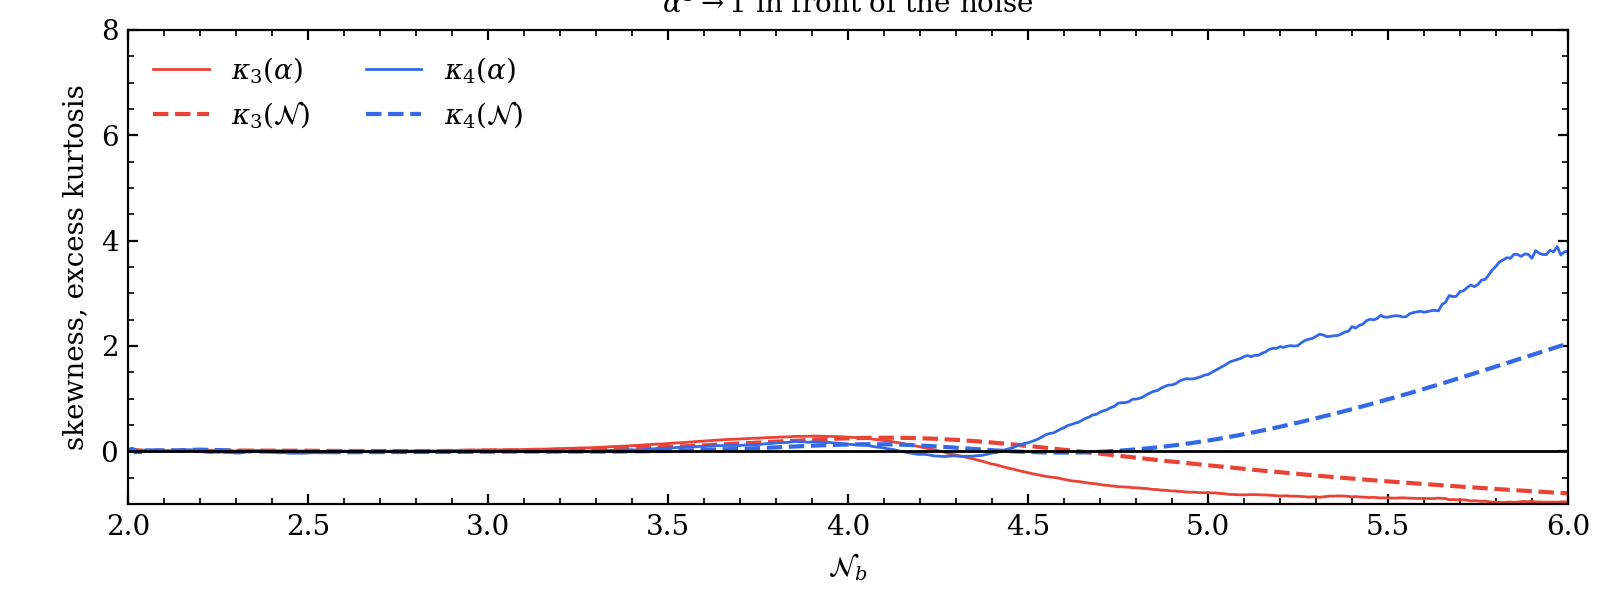
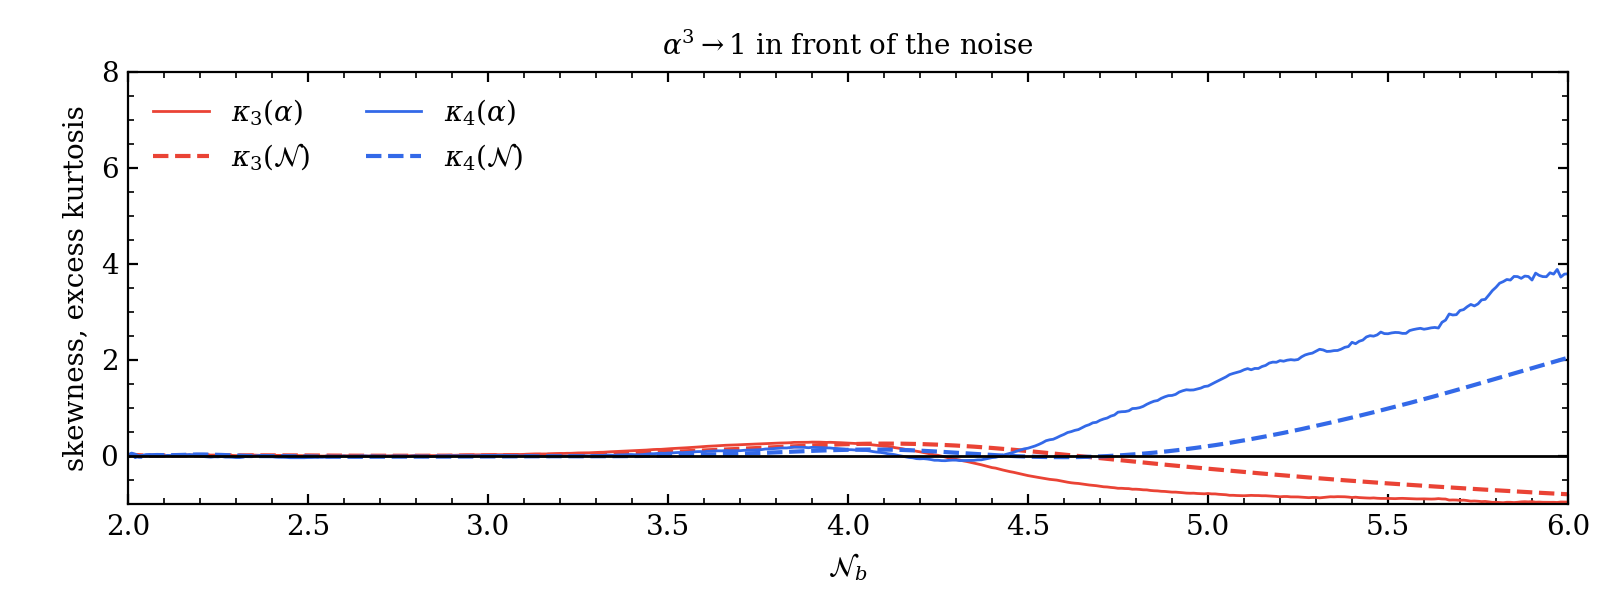
repro/langevin: verdicts for arXiv:2401.08530 sec. V - four figures reproduced (Ito reading at step 0.01 matches the read-off widths within 3%), statements tested; README, journal entry 3
Runs E-20261123-021043-d00a314 (simulation), E-20261123-021843-813759b (analysis). Background of the paper reaches the slope only with forward Euler at step 0.01 (crossing 3.0435); the converged one stops at phi = 9.06402 > phi_c.

diff --git a/tracks/E-stoch-inf/repro/langevin/README.md b/tracks/E-stoch-inf/repro/langevin/README.md
@@ -1,0 +1,178 @@
+# repro/langevin: arXiv:2401.08530, section V (Langevin equations in the uniform-field gauge)
+
+Reproduction of the numerical part of "Stochastic Inflation in General Relativity"
+(arXiv:2401.08530 v2; source `kb-data/raw/arxiv/2401.08530/v2/src/Stochastic_Inflation.tex`,
+cited `SI.tex:<line>`): two coupled Langevin equations for the lapse alpha and the e-folds N of
+one patch, time = background e-folds N_b, fifty thousand paths, four figures and the
+statements of SI.tex:842-875. Decision 0028 item 1. This is a zero-dimensional stochastic ODE,
+a semi-analytic reference outside `athenak/src/` in the sense of decision 0010; the paper
+itself says no numerical-relativity code exists in this gauge (SI.tex:879). Journal with
+every prediction and outcome: `JOURNAL.md`. No card time used.
+
+## Contents
+
+| Path | What |
+|---|---|
+| `lsde.py` | background (forward Euler or RK4), noise amplitude of SI.tex:838, the printed equations SI.tex:806 and 825-826, integrators: Stratonovich Heun, Euler-Maruyama on the Ito-equivalent drift, Euler-Maruyama on the printed drift (Ito reading); linear-theory covariance ODE |
+| `simulate.py` | the four backgrounds and the 21 variants (50 000 paths each); writes `var_<name>.npz`, `bg_<name>.npz`, `summary.json` |
+| `analyse.py` | figures, KDE with bootstrap bands (Silverman bandwidth, 200 resamples), tail tests, bootstrap moments, window medians; writes `langevin.json` |
+| `figstyle.py` | copy of `python/nrpic/figstyle.py` |
+| `results/langevin.json` | every number below (backgrounds, per-variant moments at N_b = 3 ... 6, window medians over [4.5, 6], tail tests, linear check) |
+| `results/simulate_summary.json` | per-variant moments at the record times, dead paths, wall times |
+| `fig/*.png` | our figures (none of the paper's) |
+
+Registered runs (manifests in `tracks/E-stoch-inf/runs/<id>/`, output in
+`scratch/E-stoch-inf/<id>/`, one core each, scouting):
+
+| Run | What |
+|---|---|
+| `E-20261123-020327-e524721` | run 1: backgrounds and 16 variants |
+| `E-20261123-020746-78d0c54` | analysis of run 1, FAILED (plotting keyword), kept on record |
+| `E-20261123-020825-1a01a96` | analysis of run 1 |
+| `E-20261123-021043-d00a314` | run 2: all 21 variants (run 1 repeated bit for bit, plus the Ito-reading set) |
+| `E-20261123-021647-46097e6` | analysis of run 2 |
+| `E-20261123-021843-813759b` | analysis of run 2, final (title margin only); `results/` and `fig/` come from it |
+
+## How to rerun
+
+From the worktree root, with committed code (about 6 min and 2 min on one core):
+
+```text
+harness/bin/nrpic-run submit --kind scouting --gate G2 --purpose "..." --package tracks/E-stoch-inf/repro/langevin --cores 1 -- python3 tracks/E-stoch-inf/repro/langevin/simulate.py '$NRPIC_RUN_DIR'
+harness/bin/nrpic-run submit --kind scouting --gate G2 --purpose "..." --package tracks/E-stoch-inf/repro/langevin --parent <sim run> --cores 1 -- python3 tracks/E-stoch-inf/repro/langevin/analyse.py /data/haiyangw/nrpic/scratch/E-stoch-inf/<sim run> '$NRPIC_RUN_DIR' --install tracks/E-stoch-inf/repro/langevin
+```
+
+Seeds are fixed (numpy PCG64 with SeedSequence(seed), seed 1 unless the variant says
+otherwise); run 2 repeated run 1 exactly.
+
+## Set-up and the choices the paper leaves open
+
+As printed: V = V0 to phi_c = 9.056, V0 [3x^2 - 2x^3] below; phi* = 10, dphi/dN* = -2.0001,
+V0 from the Friedmann constraint with H* = 1e-5 (V0 = 9.998e-11), M_Pl = 1 (SI.tex:847);
+noise on for 2 <= N_b < 6, step 0.01, 50 000 paths, start alpha = 1, N = N_b (SI.tex:842);
+amplitude (3/2pi) H / sqrt(2 eps1) on the background (SI.tex:838, 1072); eps2 = -d ln eps1/dN
+(SI.tex:919, so eps2 = +6 in USR). Choices [JUDGEMENT]:
+
+1. Background integrator. The converged background never reaches the slope: on the plateau
+   the field stops at phi = 10 - (1/sqrt6) ln((sqrt6 + 2.0001)/(sqrt6 - 2.0001)) = 9.06402,
+   above phi_c [VERIFIED analytically and by RK4]. Forward Euler at step 0.01 crosses phi_c at
+   N_b = 3.0435, the paper's "about 3.04" (SI.tex:842); Euler at 0.005 stops at 9.0600, Heun at
+   0.01 at 9.06393. We take the Euler-0.01 background as the paper's; this explains its
+   footnote that the tuning depends on the step of 0.01.
+2. Interpretation. The paper says it used Mathematica's Stratonovich evolver (SI.tex:836) and
+   derives the alpha^3 <S^2> term with Ito's lemma (SI.tex:814-822). Our baseline `base` is the
+   printed equation read as Stratonovich (Heun). We also solve the Ito reading (Euler-Maruyama
+   on the printed drift, `ito_naive`) and the Ito-equivalent of the Stratonovich reading
+   (`ito_em`).
+3. Ito's lemma on f(Z) = phidot_b/Z with noise alpha S_Pi gives alpha^5 <S_Pi^2>/phidot_b^2,
+   not the printed alpha^3 (SI.tex:817); the paper leaves the multiplier "undecided"
+   (SI.tex:814). We use the printed alpha^3.
+4. "alpha^3 set to 1" (SI.tex:875): set to 1 both in front of the noise and in the Ito term.
+5. KDE: Gaussian kernel, Silverman bandwidth, 95% pointwise bootstrap band (200 resamples).
+   Caption SI.tex:861 says "five" times and lists four (3, 4, 5, 6); we use the four.
+6. A path with |alpha| > 50 or not finite is stopped and left out of the moments (counted).
+
+Values of the paper read off its figures (`plot2v2.png`, `plot2bv2.png`, `plot4v2.png`;
+widths from the peak of the dashed Gaussian, sigma = 1/(peak sqrt(2 pi))) appear only in this
+text: std(alpha - 1) = 0.0066, 0.117, 0.133, 0.121 and std(N - N_b) = 0.0016, 0.042, 0.150,
+0.190 at N_b = 3, 4, 5, 6; kappa3(alpha) ~ 1.1 and kappa4(alpha) ~ 3 (spiky) from 4.2 on;
+kappa3(N), kappa4(N) peak ~0.6, ~0.8 near 4.4 and reach ~0.3, ~0.2 at 6. Reading accuracy
+about 3-5%.
+
+## Results and verdicts
+
+Numbers from `results/langevin.json` (analysis `E-20261123-021843-813759b` of run
+`E-20261123-021043-d00a314`). Main finding [JUDGEMENT, from statistics, not from the
+authors]: the paper's four figures are matched to within the reading accuracy by the Ito
+reading of the printed equations at step 0.01 on the Euler-0.01 background, and NOT by the
+Stratonovich reading it states. The convergent Stratonovich solution (Heun and Ito-equivalent
+agree at h = 0.001 within 0.6%) is 8-20% wider at N_b = 4-6, has kappa3(alpha) ~ 1.6 instead
+of ~1.1, and a mean N - N_b = 0.085 at N_b = 6 (the paper's 100-path mean ~0.01-0.02).
+
+| Width | paper (read off) | Ito reading, seeds 1/2/3, h = 0.01 | Ito reading h = 0.001 | Stratonovich (Heun), h = 0.01 |
+|---|---|---|---|---|
+| std alpha, N_b = 4 | 0.117 | 0.1168 / 0.1173 / 0.1167 | 0.1225 | 0.1263 |
+| std alpha, 5 | 0.133 | 0.1365 / 0.1339 / 0.1331 | 0.1311 | 0.1688 |
+| std alpha, 6 | 0.121 | 0.1207 / 0.1207 / 0.1207 | 0.1198 | 0.1443 |
+| std N, 4 | 0.042 | 0.0425 / 0.0427 / 0.0426 | 0.0454 | 0.0461 |
+| std N, 5 | 0.150 | 0.1498 / 0.1506 / 0.1497 | 0.1549 | 0.1707 |
+| std N, 6 | 0.190 | 0.1853 / 0.1864 / 0.1856 | 0.1900 | 0.2171 |
+| median kappa3(alpha) on [4.5, 6] | ~1.1 | 1.04 / 1.13 / 1.14 | 1.08 | 1.59 (seeds 2-4: 1.53-1.64) |
+| median kappa4(alpha) on [4.5, 6] | ~3 | 4.41 / 3.02 / 3.18 | 2.83 | 7.23 |
+| median kappa3(N), kappa4(N) on [4.5, 6] | ~0.3-0.5, ~0.2-0.5 | 0.34-0.36, 0.17-0.25 | 0.35, 0.22 | 0.46, 0.41 |
+| mean N - N_b at 6 | ~0.01-0.02 (100 paths) | 0.0034 / 0.0033 / 0.0024 | 0.0046 | 0.085 |
+
+Per figure:
+- Fig. 1 (paths, `fig/fig1_paths.png`, `fig/fig1_paths_ito_naive.png`): REPRODUCED. Noise
+  visible from ~3.2, alpha spread -0.3 to +0.6 with spikes to ~1 after 4, N - N_b fans out to
+  +-0.4 and freezes; widths as in the table (Ito reading within 4%; Stratonovich 8-20% wider,
+  with a drifting mean of N - N_b).
+- Fig. 2 (skewness, kurtosis, `fig/fig2_moments_ito_naive.png`, `fig/fig2_moments.png`):
+  REPRODUCED with the Ito reading (kappa3(N) and kappa4(N) peak at ~0.58 and ~0.68 near 4.35,
+  read off our figure, then fall to 0.27 and 0.11 at 6; kappa3(alpha) plateau ~1.05; kappa4(alpha) 2.5-4.5 with spikes).
+  REPRODUCED IN PART with the Stratonovich reading (same shapes for N; kappa3(alpha) ~1.6,
+  kappa4(alpha) ~7 with spikes to 400). Single-time kurtosis of alpha is dominated by a few
+  paths near blow-up (14 of 50 000 stopped in `base`, 0-2 in the Ito reading), so it is not a
+  stable statistic (seed 3: 3143 at N_b = 5).
+- Fig. 3 (PDFs with Gaussians and bootstrap bands, `fig/fig3_pdfs_ito_naive.png`,
+  `fig/fig3_pdfs.png`): REPRODUCED. Gaussian at N_b = 3; at 4-6 alpha peaked left of its mean
+  with a long right tail, N - N_b mildly right-skewed; the Ito-reading KDE peaks (read off our
+  figure: 59/245, 3.75/9.7, 3.45/2.75, 3.8/2.15 for alpha/N at 3/4/5/6) match the paper's to a
+  few per cent.
+- Fig. 4 (log PDFs, `fig/fig4_logpdfs.png`, `fig/fig4_logpdfs_ito_naive.png`): REPRODUCED,
+  including straight right tails from N_b = 4 and the sharp left cut-off of alpha.
+
+Per statement:
+- USR from ~2 e-folds, eps1 << 1, eps2 ~ 6 (SI.tex:842): REPRODUCED; eps1 < 1e-2 and
+  |eps2 - 6| < 0.03 from N_b = 1.06; eps1(2) = 3.2e-5 (`fig/fig_background.png`).
+- Slope reached at ~3.04, velocity then rises extremely slowly in USR (SI.tex:842):
+  REPRODUCED only with the Euler-0.01 background (3.0435; |phi'| falls to its minimum
+  9.2e-6 at N_b = 5.41, eps2 = 4.07, 0.34, -0.12 at 4, 5, 6). With the converged background
+  the slope is never reached, sigma grows like e^{3N} and half the paths blow up by
+  N_b = 4.75-4.8 (86-88% by 6; `bg_exact`, `bg_e005`; `fig/fig_step_seed.png`).
+- Exponential tails between 3 and 4 e-folds (SI.tex:871): lapse REPRODUCED (exceedances above
+  the 90% quantile, N_b = 4 to 6, Stratonovich and Ito reading: coefficient of variation
+  0.97-1.12 against 1 for an exponential and 0.87 for the Gaussian tail, 1.6 once where one
+  extreme path dominates; KS against the exponential p >= 0.013 in 7 of 8 cases, 1.3e-4 in that
+  one; against the Gaussian tail p < 1e-88); e-folds REPRODUCED IN PART (much heavier than the
+  Gaussian tail, KS p < 1e-22, but between Gaussian and exponential: CV 0.88-0.96, KS against
+  the exponential p from 4e-5 to 0.034). At N_b = 3 both are Gaussian (KS against the Gaussian tail p = 0.10 to 0.39).
+- Noise off at 6: lapse back to 1, e-folds conserved (SI.tex:873): REPRODUCED (`off6`,
+  `fig/fig_off6.png`): median |alpha - 1| = 1.5e-4 at N_b = 8 and 2.8e-7 at 10 (max 2.0e-6);
+  N - N_b changes between 7 and 10 by a median 1.1e-3, 0.5% of its spread 0.23.
+- alpha^3 -> 1 gives left-skewed PDFs (SI.tex:875): REPRODUCED (`a3one`,
+  `fig/fig_a3one.png`, `fig/fig_a3one_moments.png`): skewness of alpha -0.78, -0.96 and of N
+  -0.26, -0.80 at N_b = 5, 6; paths cross alpha = 0 (minimum alpha -1.0 at 6), whereas with
+  alpha^3 the smallest alpha at the record times of the Heun runs is 0.64 (the barrier of
+  SI.tex:875; Euler-Maruyama on the Ito-equivalent: 0.12 at N_b = 6). In the Ito reading a few paths do cross 0 (seed 1: minimum -5.7 at 5).
+- The Ito term changes little (SI.tex:822): REPRODUCED IN PART. Switching it off changes the
+  widths at N_b = 4 and 6 by 1-8% (11% at 5 in the Stratonovich run, where one near-blow-up
+  path inflates the width) and the skewness of N by < 0.02, but shifts the mean of alpha by -0.03 and the
+  mean of N - N_b at 6 from 0.085 to 0.033 (Stratonovich) and from 0.003 to -0.040 (Ito
+  reading): about a fifth of a standard deviation. The interpretation (Ito vs Stratonovich) of
+  the alpha^3 noise matters more than the Ito term.
+- Step dependence (SI.tex:842 footnote): the SDE step alone does not matter (h = 0.005, 0.01,
+  0.02 within 1.5% in the widths at N_b = 4 and 6; Heun h = 0.01 vs 0.001 within 1%); the background step decides
+  everything (item 1). The Ito reading at h = 0.001 moves the N_b = 4 widths up by 5-7%: the
+  agreement with the paper is best at exactly 0.01, consistent with a first-order (Euler)
+  integration at that step. With the background tuned instead (converged, dphi/dN* = -2.00818
+  so that it crosses at 3.045) the widths are 9-17% smaller (`bg_tuned`, `naive_tuned`).
+- Seed dependence: across seeds 1-4 the widths agree within 0.5% at N_b = 4 and 6 (at 5 single
+  near-blow-up paths move std alpha by up to 15%), the medians of kappa3(alpha) within 0.11;
+  single-time kappa4(alpha) varies by orders of magnitude.
+- Linear regime check: the run follows the linear-theory covariance on the same background to
+  0.2% (alpha) and 0.4% (N) at N_b = 3 and 0.7% at 3.5; nonlinear from 4 (`fig/fig_linear.png`).
+
+What stays ambiguous: which integrator and which interpretation Mathematica actually applied
+(the data point to Euler-type Ito integration of the printed drift, against the text's
+"Stratonovich"); the alpha^3 vs alpha^5 Ito term; whether "alpha^3 set to 1" includes the Ito
+term; KDE bandwidth; the fourth/fifth time in the caption of Fig. 3. [TO VERIFY] only the
+authors could settle the first; nobody outside is contacted (rule 9).
+
+## Requests
+
+- To the lead of E-stoch-inf (for `repro/note` and `repro/verify`): the claim that the paper's
+  figures are an Ito/Euler solution at step 0.01 deserves a check by a second agent from
+  these artefacts (decision 0009), and the derivation of the alpha^5 Ito term should go to
+  `repro/equations` for a computer-algebra check.
+- None to core: nothing here needs `athenak/src/`.

diff --git a/tracks/E-stoch-inf/repro/langevin/JOURNAL.md b/tracks/E-stoch-inf/repro/langevin/JOURNAL.md
@@ -149,3 +149,43 @@ Ito term; on the tuned converged background):
   (d) tuned converged background: widths 10-15% below the Euler-0.01 background (as for Heun:
       bg_tuned std alpha 0.110 vs 0.126 at 4).
 Refuted if (a) misses by more than 10% at two of the six widths.
+
+## Entry 3 (2026-11-22 18:32 PST): outcomes of entry 2 and of P5-P10 (run E-20261123-021043-d00a314, analyses E-20261123-021647-46097e6 and E-20261123-021843-813759b)
+
+Run 2 repeated run 1 bit for bit for the 16 common variants (same dead counts and moments).
+Figures looked at: fig_background, fig_scheme, fig_step_seed, fig_off6, fig_a3one,
+fig_a3one_moments, fig_linear, fig2_moments_ito_naive, fig3_pdfs_ito_naive (and the four of
+entry 2).
+
+- H-Ito (a) HELD: Ito reading, seeds 1/2/3, widths at N_b = 4, 5, 6 within 0.3-2.5% of all six
+  read-off values (largest: std N at 6, 0.185-0.186 vs 0.190); mean N - N_b at 6 = 0.002-0.003;
+  median kappa3(alpha) on [4.5, 6] = 1.04, 1.13, 1.14.
+- H-Ito (b) HELD at the edge: h = 0.001 moves the N_b = 4 widths up by 4.9% and 6.8%
+  (prediction < 7%); at 5 and 6 within 2.5%.
+- H-Ito (c) HELD: without the Ito term the window-median mean alpha is -0.031 vs -0.004.
+- H-Ito (d) HELD in direction, wider in size: tuned converged background 9-17% narrower
+  (predicted 10-15%).
+- P5 (Ito term, Heun) PARTLY: mean alpha shift -0.032 (predicted 0.01-0.03, a little more),
+  widths change 1-8% at N_b = 4 and 6 (predicted < 10%) but 11% at 5 (spike-inflated base),
+  skewness of N < 0.02 (predicted < 0.2). The mean of N - N_b at 6 drops from 0.085 to 0.033.
+- P6 (noise off at 6) HELD for alpha (median |alpha-1| 1.5e-4 at 8, 2.8e-7 at 10, max 2.0e-6);
+  FAILED narrowly for N as worded: median |D(10) - D(7)| = 1.1e-3 (threshold 1e-3); it is the
+  relaxation of alpha between 7 and ~8.5 ((alpha(7) - 1)/3.1), 0.5% of std N = 0.23. The
+  statement "the e-folds are conserved" holds once alpha has relaxed.
+- P7 (alpha^3 -> 1) HELD: skewness alpha -0.78, -0.96, N -0.26, -0.80 at 5, 6; minimum alpha
+  -1.0 at 6 (paths cross 0 to the alpha = -1 attractor), no path stopped.
+- P8 HELD: SDE step 0.005/0.02 within 1.5% in widths at N_b = 4 and 6, skewness of N within 0.03;
+  Euler-0.005 and converged backgrounds: half the paths stopped by 4.75 and 4.8, 88% and 86% by
+  6; tuned converged background: widths 9-17% below base (predicted within 10%: FAILED in size,
+  the Euler background has a smaller eps1 at a given N, sigma larger by ~10%).
+- P9 HELD: widths across seeds within 0.5% at 4 and 6; median kappa3(alpha) 1.53-1.64;
+  single-time kappa4(alpha) from 4.3 to 3143 at N_b = 5.
+- P10 HELD for alpha, PARTLY for N: N_b = 3 Gaussian (KS vs Gaussian tail p 0.10-0.39, skewness
+  0.055 +- 0.010 and 0.026 +- 0.011); alpha tails at 4-6 exponential (CV 0.97-1.12, KS exp
+  p >= 0.013 in 7 of 8); N tails heavier than Gaussian (KS p < 1e-22) but CV 0.88-0.96, KS against
+  the exponential p 4e-5 to 0.034: between Gaussian and exponential.
+
+Verdicts per figure and statement: README "Results and verdicts". Cause of the
+Ito-vs-Stratonovich preference: not named; only the authors could say which Mathematica
+method ran (the data are consistent with Euler-Maruyama at step 0.01, the same first-order
+step that puts the background on the slope at 3.04). Package closed for this batch.
